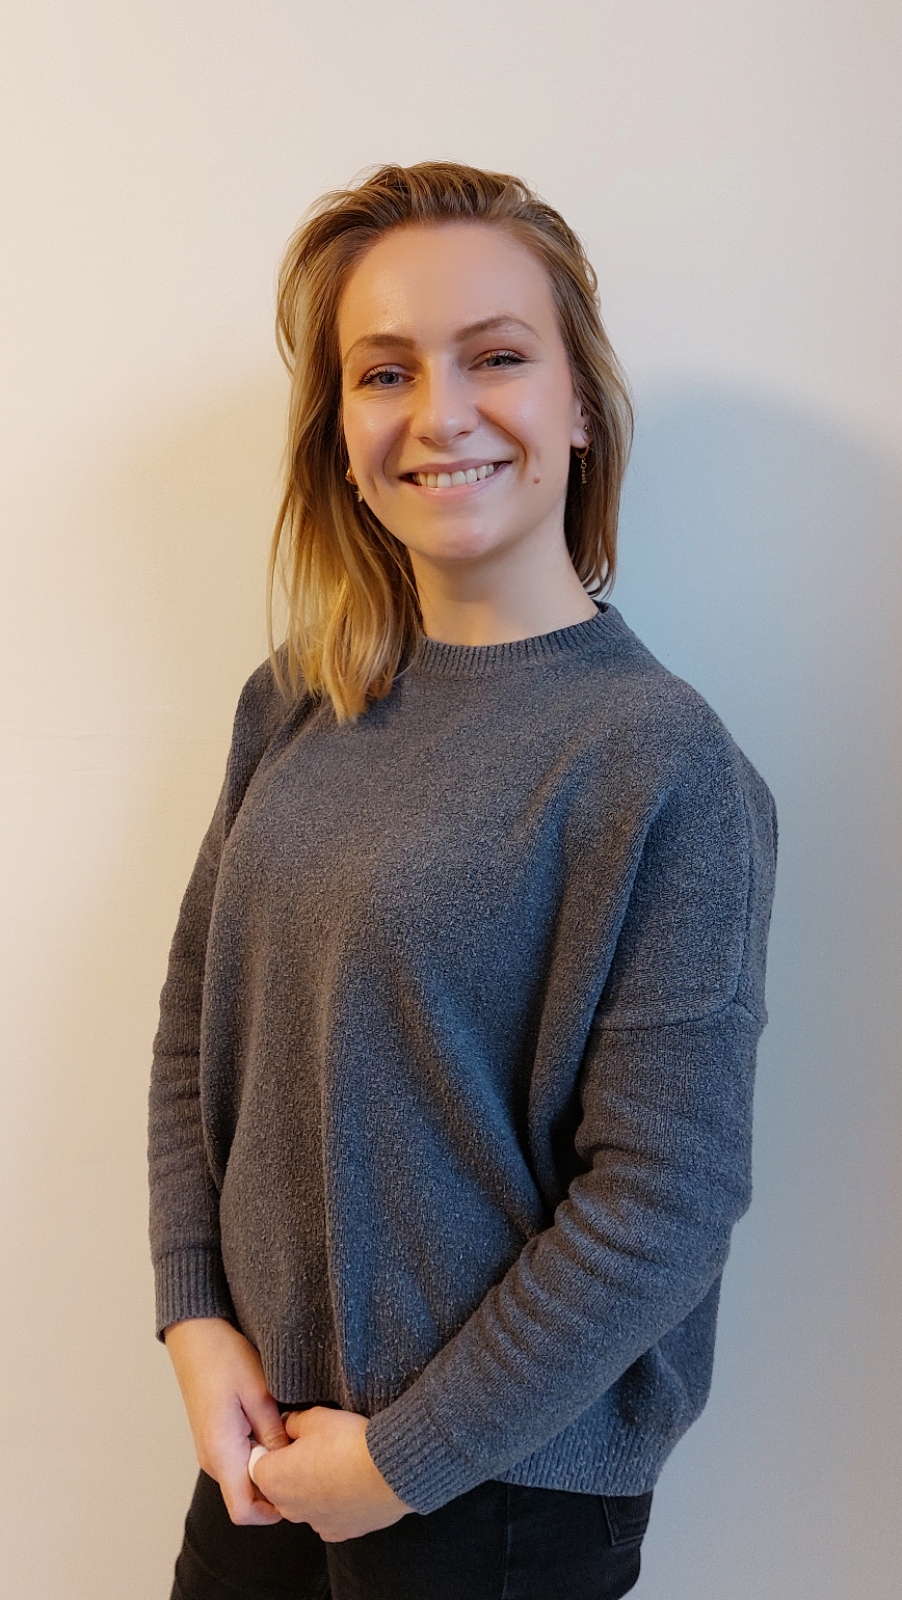
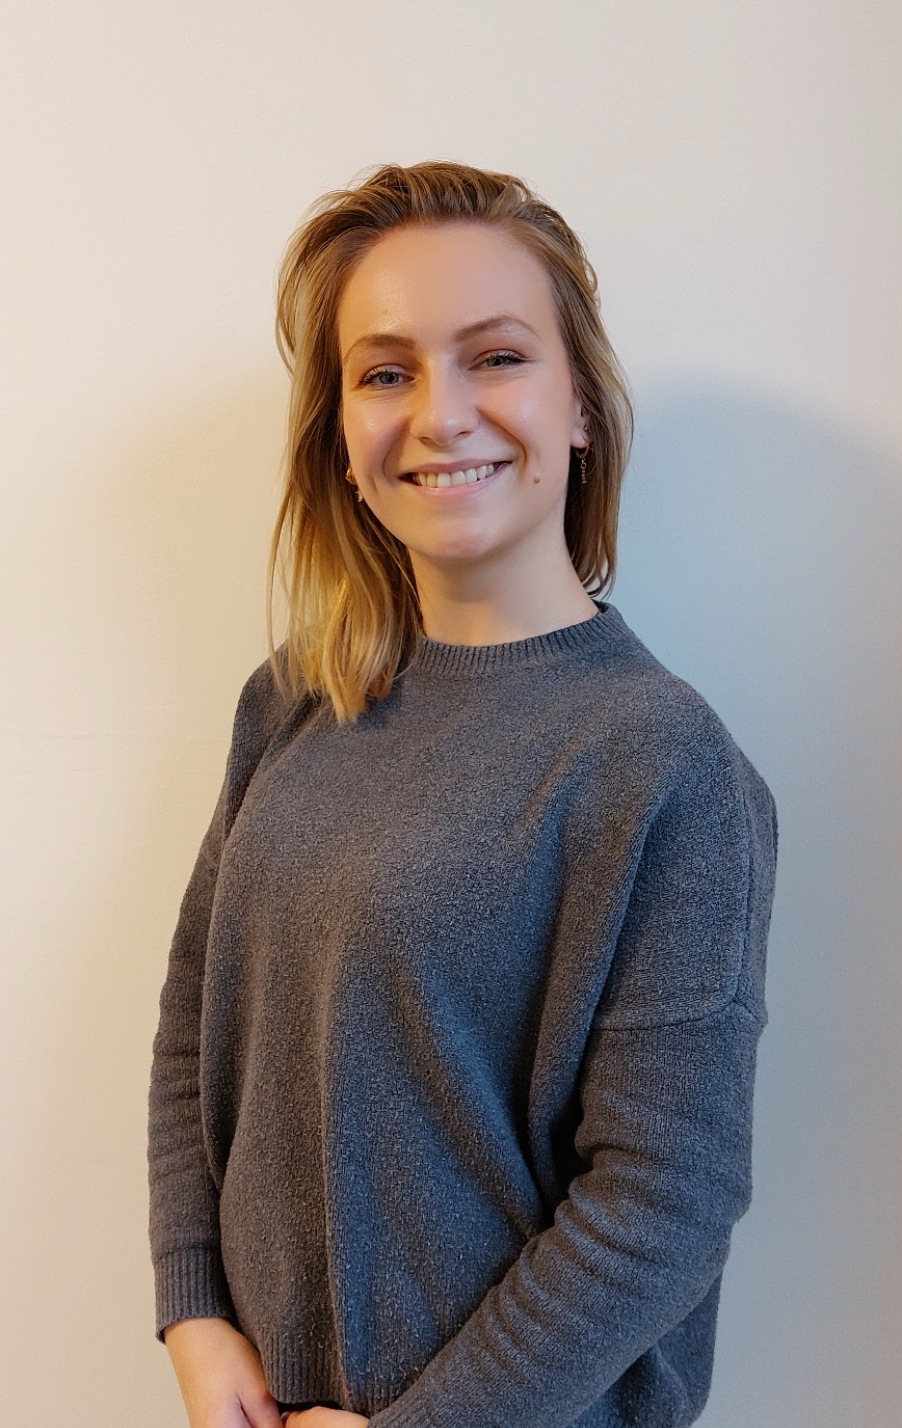
chore(): changes

diff --git a/content/team/team.ts b/content/team/team.ts
@@ -50,7 +50,7 @@ export const team: TeamType = [
     role: 'Manuele therapie – kinesitherapie',
     specialitities: ['Dry needling'],
     imageWidth: '902',
-    imageHeight: '1600',
+    imageHeight: '1428',
     appointmentUrl: 'https://www.q-top.be/Online-planner/NL/?root=kq06076',
     backgroundPosition: {
       top: '-25px',
@@ -118,5 +118,18 @@ export const team: TeamType = [
     phone: '0492 16 29 28',
     appointmentHtml:
       '<a href="https://www.stepup-podologie.be" target="_blank" class="underline" title="https://www.stepup-podologie.be">https://www.stepup-podologie.be</a>',
+  },
+  {
+    firstName: 'Yanuka',
+    lastName: 'Moniaga',
+    description: `<p>Yanuka Moniaga vult sinds de zomer van 2024 ons team aan als personal trainer. Met haar jarenlange ervaring als algemeen sportcoach en karate-instructeur én momenteel startende aan haar afstudeerjaar Master in de Kinesitherapie & Revalidatiewetenschappen vormt ze het ideale verlengstuk van ons huidige team. Aanvankelijk zal ze zich bezighouden met 1 op 1 sessies personal training met een optie tot de vorming van small-group-training (2-3 personen). Voor meer informatie en voor het maken van een afspraak verwijzen we u graag door naar haar website <a href="http://www.yanuka.be">www.yanuka.be</a>.</p>`,
+    role: 'Personal trainer',
+    imageFileName: 'yanuka-moniaga.jpg',
+    specialitities: [],
+    imageWidth: '899',
+    imageHeight: '1252',
+    phone: '0476 63 67 77',
+    appointmentHtml:
+      '<a href="http://www.yanuka.be/" target="_blank" class="underline" title="http://www.yanuka.be/">http://www.yanuka.be/</a>',
   },
 ]

diff --git a/src/components/Afspraak/Afspraak.tsx b/src/components/Afspraak/Afspraak.tsx
@@ -56,7 +56,8 @@ export const Afspraak = () => {
               </span>
               <span className="block text-lg font-normal tracking-normal">
                 {selectedPerson.firstName === 'Daphne' ||
-                selectedPerson.firstName === 'Pieter'
+                selectedPerson.firstName === 'Pieter' ||
+                selectedPerson.firstName === 'Yanuka'
                   ? ''
                   : selectedPerson.geconventioneerd
                   ? 'Geconventioneerd therapeut'

diff --git a/src/components/Home/Home.tsx b/src/components/Home/Home.tsx
@@ -100,7 +100,7 @@ export const Home = () => {
         </p>
         <ul
           role="list"
-          className="mt-4 flex flex-col mx-auto justify-center items-center gap-y-4 sm:flex-row sm:gap-x-12 sm:gap-y-0"
+          className="mt-6 flex flex-col mx-auto justify-center items-center gap-y-4 sm:grid sm:grid-cols-4 sm:gap-4 sm:gap-y-6"
         >
           {team.map((teamMember) => (
             <li className="text-xl" key={teamMember.firstName}>

diff --git a/src/components/Team/Team.tsx b/src/components/Team/Team.tsx
@@ -28,6 +28,10 @@ const sections = [
     title: 'Podologie',
     people: ['Pieter'],
   },
+  {
+    title: 'Personal trainer',
+    people: ['Yanuka'],
+  },
 ]
 
 export const Team = () => {
